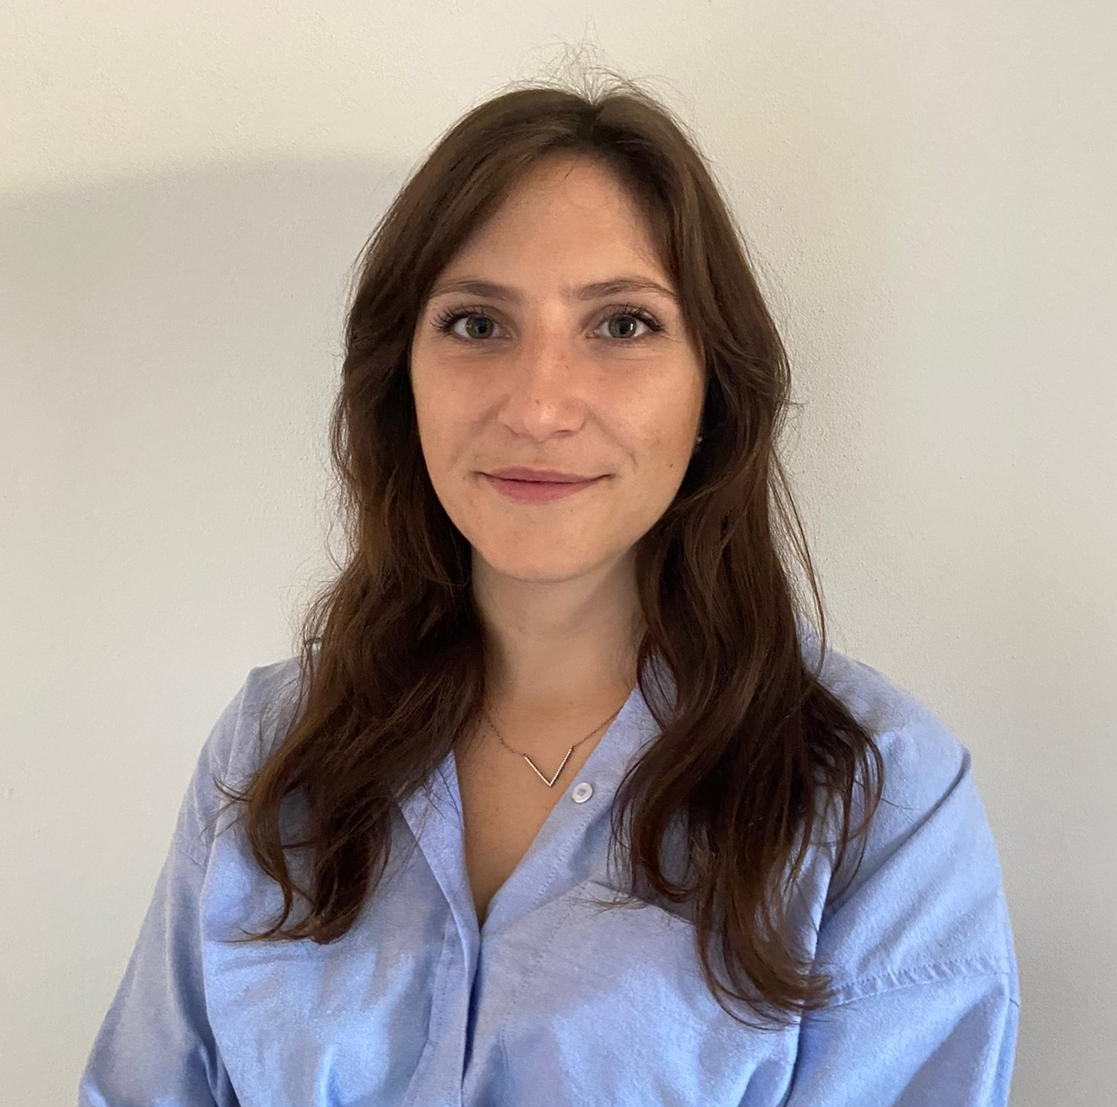
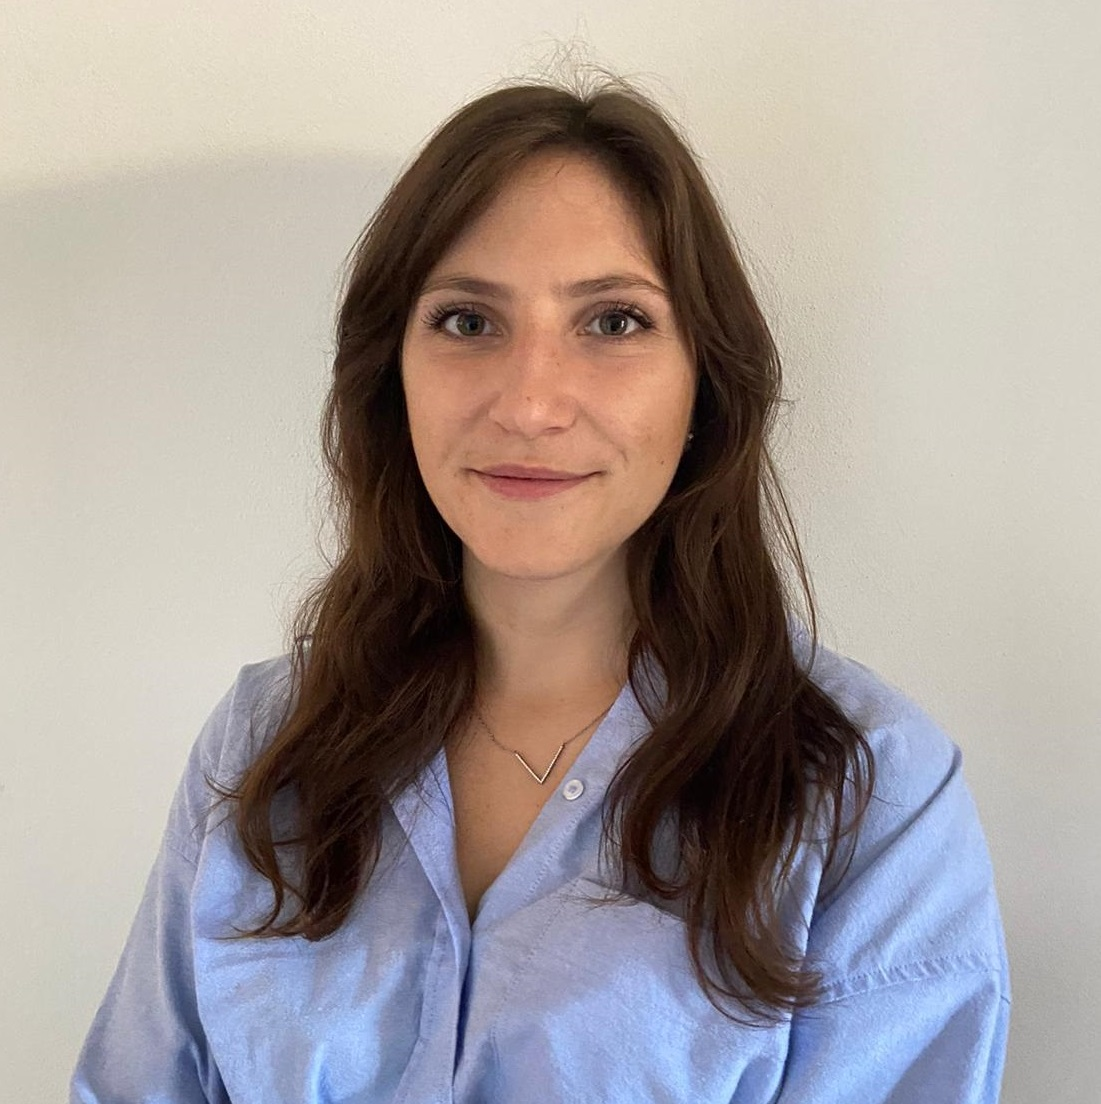
Quick fix

diff --git a/components/sections/Team/Member/index.jsx b/components/sections/Team/Member/index.jsx
@@ -1,6 +1,6 @@
 import { useTranslation } from 'next-i18next';
 import { motion } from 'framer-motion';
-import { fadeContainer, fadeItem } from '../../../utility/framer';
+import { fadeItem } from '../../../utility/framer';
 import { useState } from 'react';
 import Image from 'next/image';
 import Modal from '../../../utility/Modal';
@@ -13,8 +13,6 @@ import {
 } from './index.styled';
 
 const Member = (props) => {
-  const { t } = useTranslation('common');
-
   const [modalOpen, setModalOpen] = useState(false);
 
   const close = () => setModalOpen(false);
@@ -28,8 +26,9 @@ const Member = (props) => {
           alt={props.key}
           key={props.key}
           variants={fadeItem}
-          fill
-        ></Image>
+          width={150}
+          height={150}
+        />
       </Portrait>
       {modalOpen && (
         <Modal
@@ -44,20 +43,21 @@ const Member = (props) => {
               alt={props.key}
               key={props.key}
               variants={fadeItem}
-              fill
-            ></Image>
+              width={150}
+              height={150}
+            />
           </PortraitExtend>
           <hgroup>
-            <h3>{props.name}</h3>
-            <h5>{props.title}</h5>
+            <motion.h3>{props.name}</motion.h3>
+            <motion.h5>{props.title}</motion.h5>
           </hgroup>
           <Description>{props.description}</Description>
         </Modal>
       )}
-      <hgroup>
-        <h3>{props.name}</h3>
-        <h4>{props.title}</h4>
-      </hgroup>
+      <motion.hgroup>
+        <motion.h3>{props.name}</motion.h3>
+        <motion.h4>{props.title}</motion.h4>
+      </motion.hgroup>
     </TeamContent>
   );
 };
